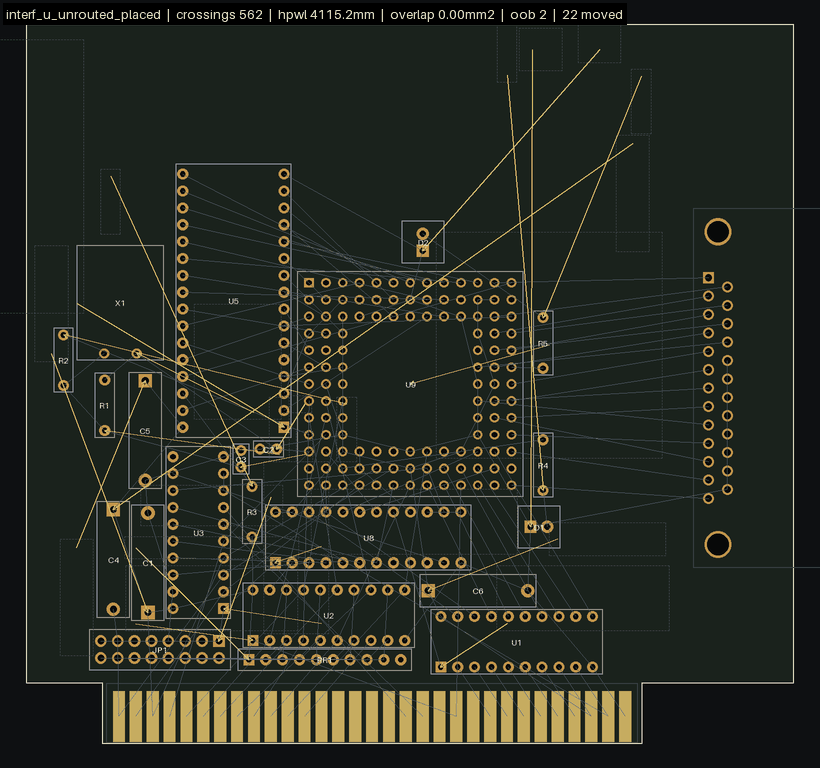
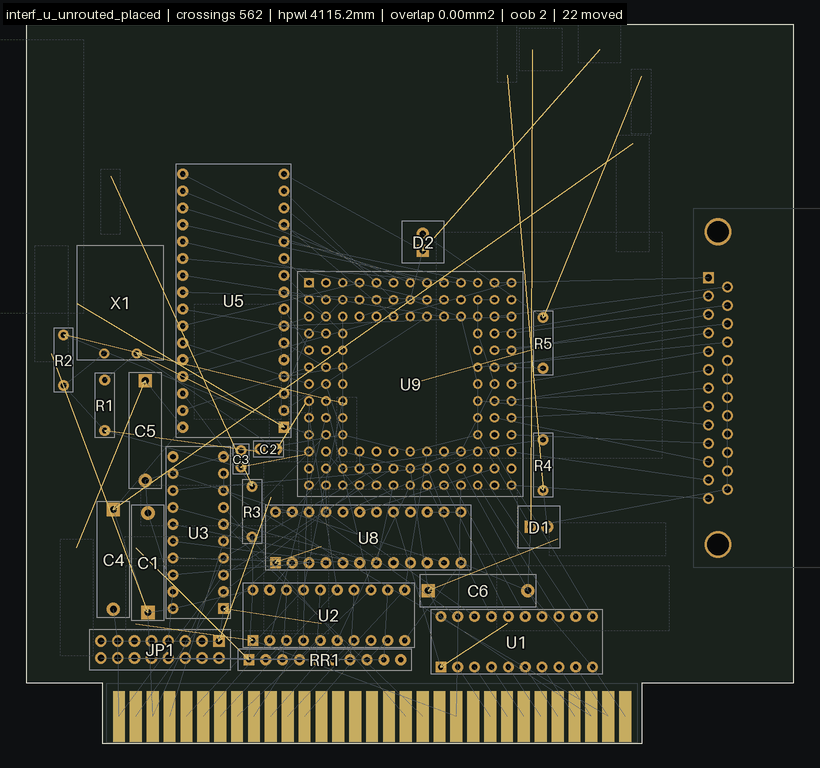
#431: make reference labels legible, and show every toggle
LABELS WERE DRAWN BUT UNREADABLE. The font scaled with image height alone --
`int(H / 90)`, clamped to 8px -- so a 400px render got an 8px label at ANY zoom
level. Technically present, 653 pixels of it, and useless: asked for a labels
example I could not produce one, which is how this surfaced.

They are now sized from the PART's own footprint on screen, clamped to a legible
range, with a dark stroke so a reference over gold copper still reads. A part too
small to letter is skipped entirely and its arrow carries the meaning, rather
than stamping a smudge nobody can resolve. `J1`, `IC2`, `C5`, `R3` are readable
on a 13-part board at 760px now.

TOGGLE GALLERY. Two contact sheets rather than a dozen separate files -- one
image is easier to compare against and cheaper to carry:

  placement-toggles.png   8 panels, same 13-part delta, one flag at a time:
                          default / --no-borders / --no-labels / --no-ratsnest /
                          --no-pads / --no-ghosts / --no-arrows / --no-delta-first
  placement-ratsnest.png  default vs --ratsnest-all on ulx3s (110 of 234 parts
                          moved), which is where the difference is the point
  placement-labels.png    the labels example on its own, at a readable size

`--no-delta-first` renders identically in the toggle sheet and the caption SAYS
SO with the reason: 12 of the 13 parts moved, so there is no context left to dim.
[…]

diff --git a/render_placement.py b/render_placement.py
@@ -336,17 +336,28 @@ def draw_airwires(d, r, airwires, *, color=C_AIR, width_mm=0.05):
         d.line([*r.tf.pt(x1, y1), *r.tf.pt(x2, y2)], fill=color, width=w)
 
 
-def draw_ref_labels(d, r, model, refs, *, min_px=8):
-    font = load_font(max(min_px, int(r.H * r.ss / 90)))
+def draw_ref_labels(d, r, model, refs, *, min_px=14, lo=11, hi=34):
+    """Reference designators, sized to the PART rather than to the image.
+
+    Scaling the font by image height alone gives an 8px label on a 400px render
+    whatever the zoom -- drawn, technically present, and unreadable. A label is
+    only useful if you can read it, so it is sized from the part's own footprint
+    on screen and skipped entirely when the part is too small to carry one.
+    """
     for ref in refs:
         rect = model.rect(ref)
         if rect is None:
             continue
         box = _rect_pts(r, rect)
-        if (box[2] - box[0]) < min_px and (box[3] - box[1]) < min_px:
-            continue                      # unreadable at this zoom; skip
+        w, h = box[2] - box[0], box[3] - box[1]
+        if max(w, h) < min_px:
+            continue                      # too small to letter; the arrow says it
+        # fit to the shorter side, but let a long ref use the longer one
+        size = int(max(lo, min(hi, min(max(w, h) * 0.45,
+                                       (w * 1.6) / max(1, len(ref))))))
         d.text(((box[0] + box[2]) / 2, (box[1] + box[3]) / 2), ref,
-               fill=C_LABEL, font=font, anchor='mm')
+               fill=C_LABEL, font=load_font(size), anchor='mm',
+               stroke_width=max(1, size // 9), stroke_fill=(12, 14, 16))
 
 
 def _dim(c, k=0.32):

diff --git a/placement/README.md b/placement/README.md
@@ -400,11 +400,29 @@ at the origin would otherwise render as a dot in the corner of an empty board.
 
 ![unplaced](../docs/placement-unplaced.png)
 
-Toggles for everything: `--no-borders`, `--no-labels`, `--no-ratsnest`,
-`--no-arrows`, `--no-ghosts`, `--no-pads`. `--ratsnest-all` is the deliberate
-hairball switch — on by default only the moved and attributed nets are drawn,
-because a full ratsnest on a dense board reproduces exactly the unreadable mess
-KiCad already shows. `--focus` adds one cropped panel per failed-net cluster.
+**Reference designators.** On by default, and sized to the PART rather than to
+the image — scaling by image height alone gives an 8px label at any zoom:
+drawn, technically present, and unreadable. A part too small to letter is
+skipped, and its arrow carries the meaning instead.
+
+![labels](../docs/placement-labels.png)
+
+**Every toggle, on one board.** The same 13-part delta, one flag at a time:
+
+![toggles](../docs/placement-toggles.png)
+
+`--no-delta-first` looks unchanged there for a real reason: 12 of the 13 parts
+moved, so there is no context left to dim. It matters on a board where the delta
+is a genuine subset — which is also where `--ratsnest-all` earns its keep:
+
+![ratsnest](../docs/placement-ratsnest.png)
+
+By default only the moved and attributed nets are drawn. `--ratsnest-all` is the
+deliberate hairball switch: on a dense board it reproduces exactly the
+unreadable mess KiCad already shows, which is limitation #1 in the issue and the
+reason delta-first is a default rather than polish.
+
+`--focus` adds one cropped panel per failed-net cluster.
 
 ### The movie
 
